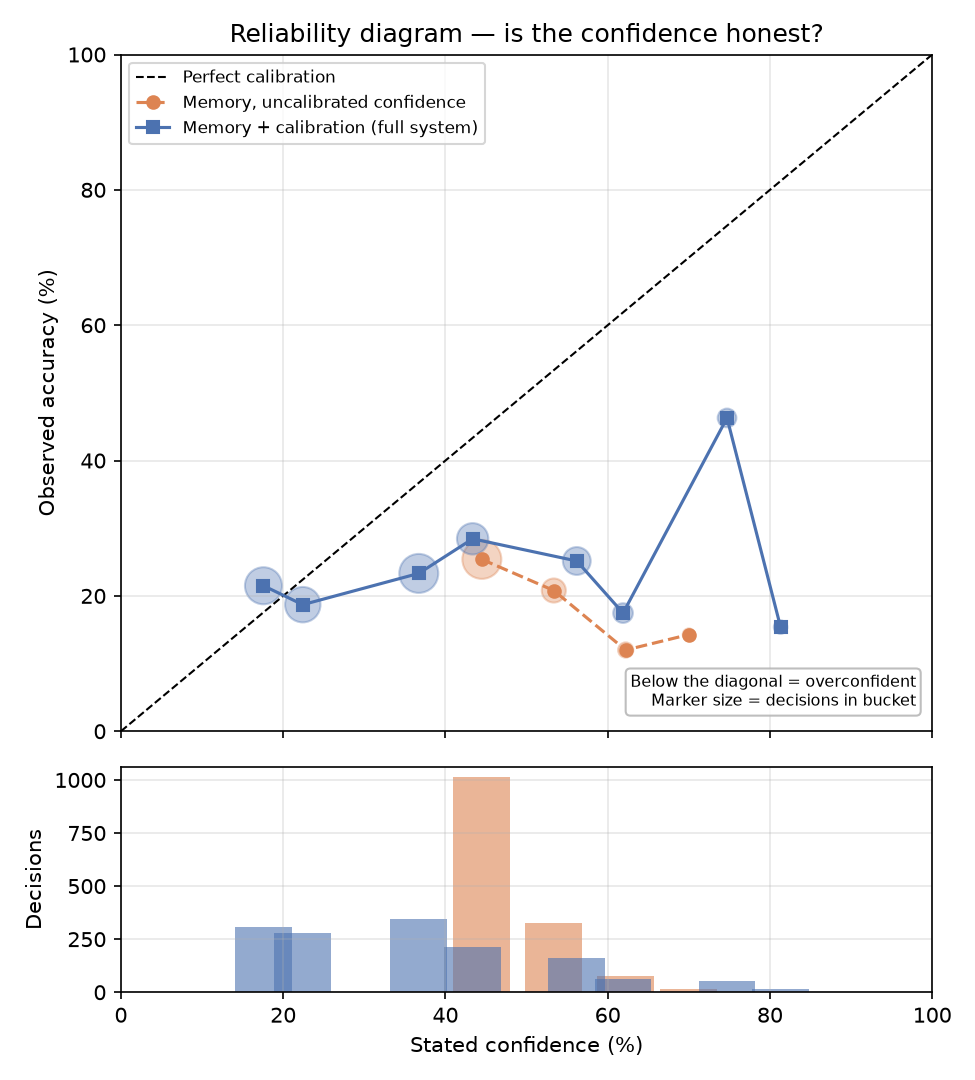
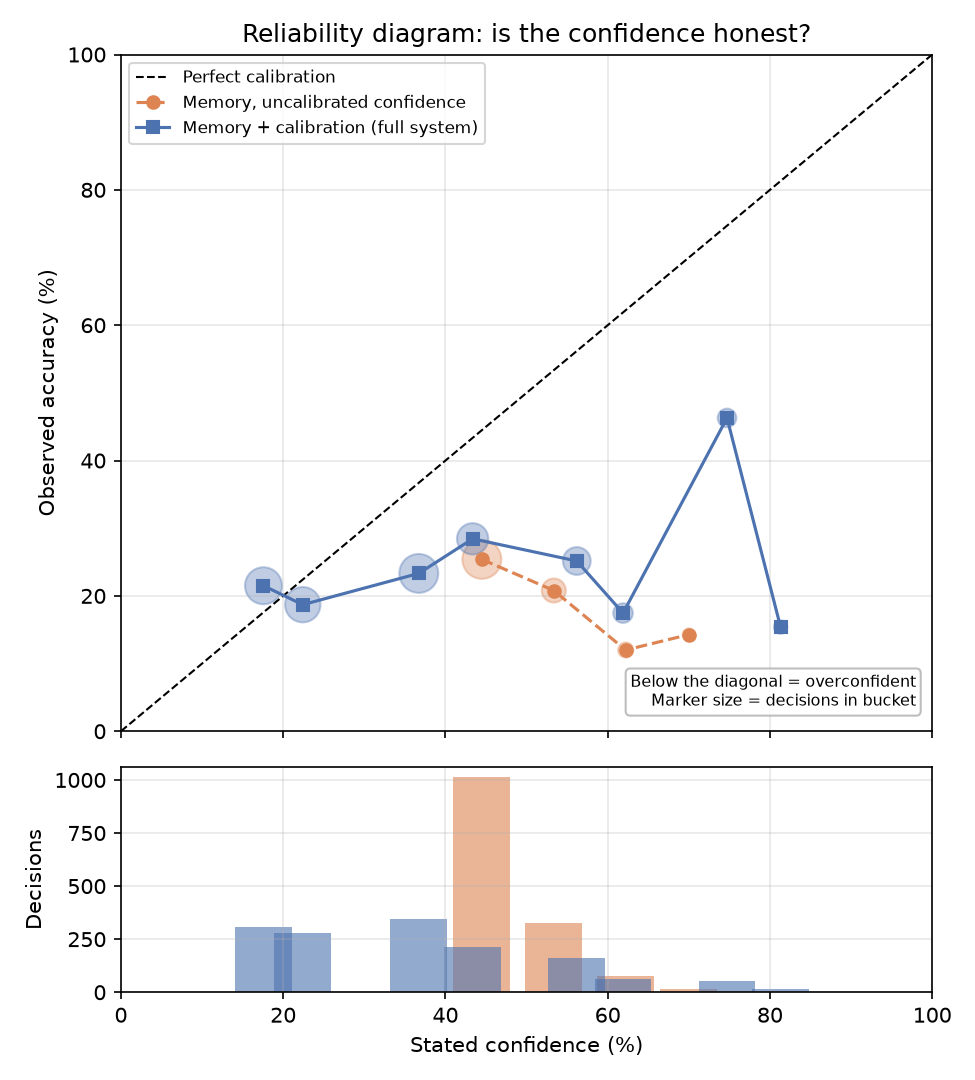
Regenerate reliability and confidence-shift figures with plain-text titles
The figure titles no longer use an em dash or a minus sign, matching the
figures used in the final report. The .gitignore note now also explains why
the LLM response cache is kept in the repository.

Changed region(s): [[0.2462, 0.0, 0.8308, 0.0611]]

diff --git a/cryptomind/report.py b/cryptomind/report.py
@@ -242,7 +242,7 @@ def _reliability_figure(plt, pooled: dict, fig_dir: Path) -> Path:
                     label=ARM_LABELS.get(arm, arm))
 
     ax.set_ylabel("Observed accuracy (%)")
-    ax.set_title("Reliability diagram — is the confidence honest?")
+    ax.set_title("Reliability diagram: is the confidence honest?")
     ax.set_xlim(0, 100)
     ax.set_ylim(0, 100)
     ax.grid(alpha=0.3)
@@ -309,7 +309,7 @@ def _confidence_shift_figure(plt, result: dict, fig_dir: Path):
 
     ax2.hist(shifts, bins=25, color="#55A868")
     ax2.axvline(0, color="k", lw=1)
-    ax2.set_xlabel("Calibrated − raw (percentage points)")
+    ax2.set_xlabel("Calibrated minus raw (percentage points)")
     ax2.set_ylabel("Decisions")
     ax2.set_title("How far memory moved each call")
     ax2.grid(alpha=0.3)
